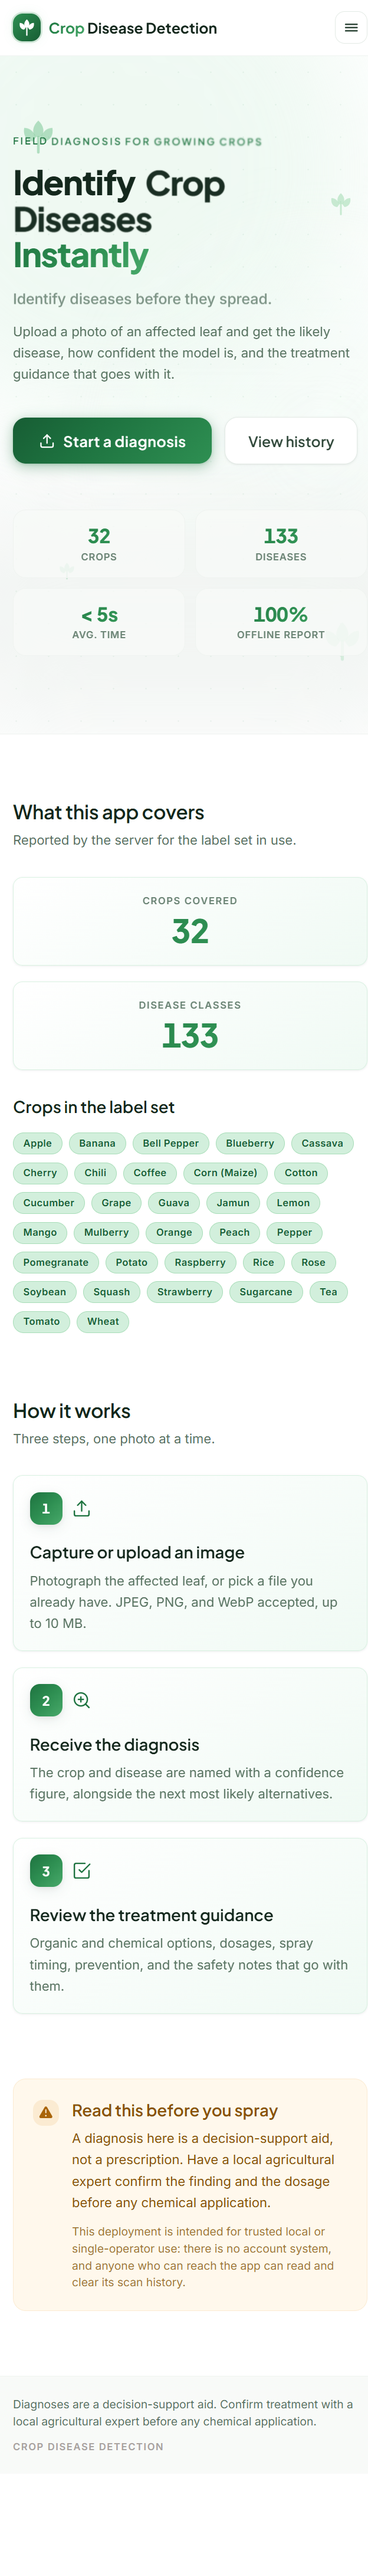
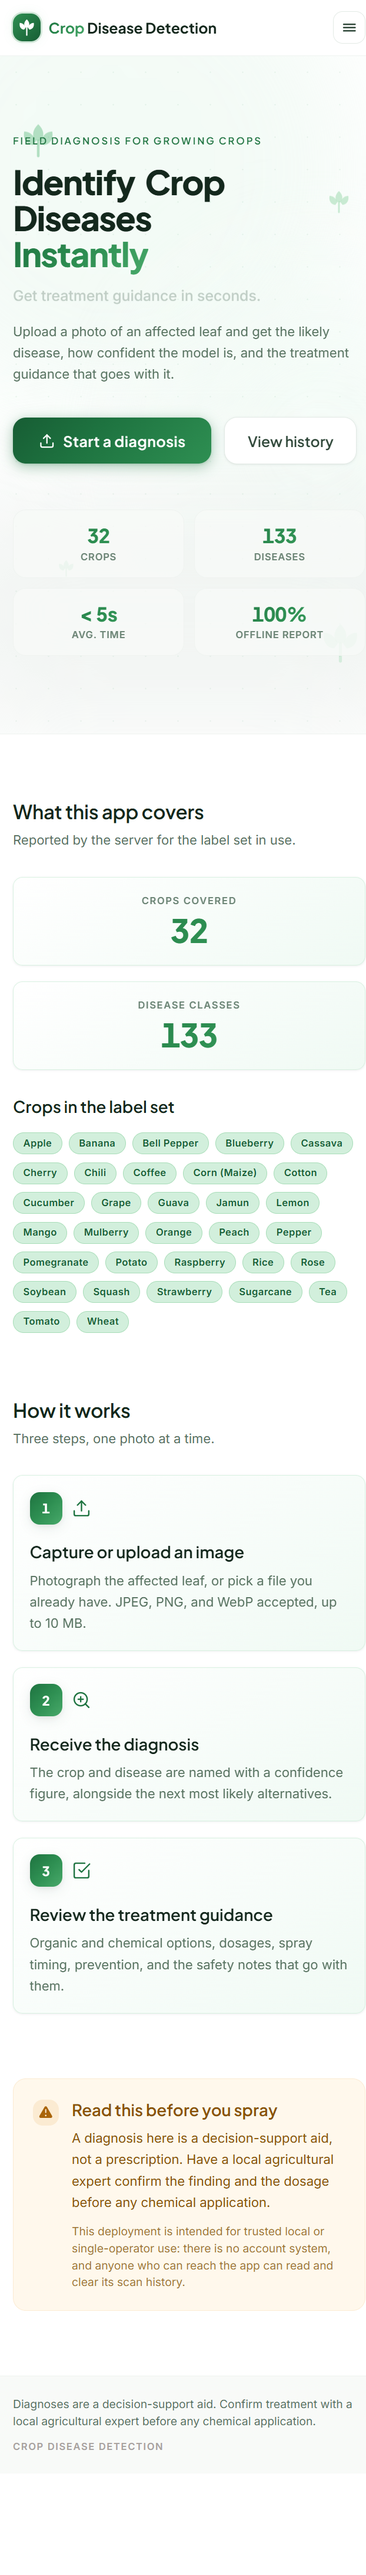
Refresh website screenshots and history image handling

diff --git a/backend/app/db/database.py b/backend/app/db/database.py
@@ -12,9 +12,10 @@ Three things are worth knowing before editing:
   an explicit ``ALTER TABLE`` guarded by a ``PRAGMA table_info`` check -- there is
   no framework to do it for you, and that is the deliberate trade.
 * **One connection per request, never one shared connection.** Route handlers are
-  sync ``def``, so FastAPI runs them in its worker threadpool and each call gets
-  its own connection from :func:`get_connection`. Because no connection ever
-  crosses a thread boundary, ``check_same_thread`` stays at its safe default.
+    sync ``def``, so FastAPI runs them in its worker threadpool and each call gets
+    its own connection from :func:`get_connection`. FastAPI may run dependency
+    cleanup on a different worker thread, so each private connection allows that
+    handoff with ``check_same_thread=False``.
 * **Pragmas are per-connection except one.** ``journal_mode=WAL`` is persisted in
   the database header, so it survives; ``foreign_keys=ON`` is per-connection and
   has to be re-issued on every ``connect``. Both are set every time regardless,
@@ -184,7 +185,10 @@ def connect(
         in-memory database has no concurrent readers to protect.
     """
     target = _resolve_db_path(db_path, settings)
-    conn = sqlite3.connect(target)
+    # FastAPI can resume a generator dependency's cleanup on a different worker
+    # thread from the one that created the connection. Each connection remains
+    # request-local, so allowing that close handoff is safe here.
+    conn = sqlite3.connect(target, check_same_thread=False)
     conn.row_factory = sqlite3.Row
 
     # WAL: readers never block the writer, which matters because a history list

diff --git a/README.md b/README.md
@@ -48,13 +48,13 @@ Crop diseases cause substantial losses to agricultural yield and food security e
 
 ## 📸 Screenshots
 
-The complete local website flow is shown below: the landing page, diagnosis workspace, and scan history view.
+The current local website flow is shown below: the home page, image upload workspace, completed diagnosis with treatment guidance, and scan history with crop photos.
 
 <p align="center">
   <img src="frontend/public/screenshots/home.png" alt="Crop Disease Detection home page" width="23%" />
-  <img src="frontend/public/screenshots/diagnosis.png" alt="Crop Disease Detection diagnosis page" width="23%" />
-  <img src="frontend/public/screenshots/history.png" alt="Crop Disease Detection history page" width="23%" />
-  <img src="frontend/public/screenshots/not-found.png" alt="Crop Disease Detection not found page" width="23%" />
+  <img src="frontend/public/screenshots/diagnosis-upload.png" alt="Diagnosis page with a crop image uploaded" width="23%" />
+  <img src="frontend/public/screenshots/diagnosis-result-treatment.png" alt="Diagnosis result and treatment guidance" width="23%" />
+  <img src="frontend/public/screenshots/history.png" alt="History page with saved crop images" width="23%" />
 </p>
 
 ---
@@ -174,6 +174,7 @@ Both frontend and backend are covered by comprehensive unit, integration, and pr
 cd backend
 python -m pytest tests
 ```
+
 - **82 automated tests passing** (configuration validation, database persistence, batch history deletion, error envelopes, and recommendation resolution).
 
 ### Frontend Tests (Vitest & Testing Library)
@@ -193,22 +194,23 @@ npm run lint
 # Build production bundle
 npm run build
 ```
+
 - **53 automated tests passing** (WCAG contrast checks, layout verification, accessibility traps, confidence meters, and diagnosis reports).
 
 ---
 
 ## 📡 API Reference
 
-| Method | Path | Description |
-|---|---|---|
-| `GET` | `/api/health` | Healthcheck & loaded model status (`healthy` / `degraded`) |
-| `GET` | `/api/meta/classes` | Retrieve supported crops, diseases, and total class count |
-| `POST` | `/api/predict` | Upload image (`multipart/form-data`) with optional crop filter |
-| `GET` | `/api/history` | Paginated list of recent scans (newest first) |
-| `GET` | `/api/history/{id}` | Detailed scan record with candidates & treatments |
-| `GET` | `/api/history/{id}/image`| Raw leaf image stream for a scan |
-| `DELETE` | `/api/history/{id}` | Delete a single scan and its image file |
-| `DELETE` | `/api/history` | **Delete all history** scans and prune uploaded images |
+| Method   | Path                      | Description                                                    |
+| -------- | ------------------------- | -------------------------------------------------------------- |
+| `GET`    | `/api/health`             | Healthcheck & loaded model status (`healthy` / `degraded`)     |
+| `GET`    | `/api/meta/classes`       | Retrieve supported crops, diseases, and total class count      |
+| `POST`   | `/api/predict`            | Upload image (`multipart/form-data`) with optional crop filter |
+| `GET`    | `/api/history`            | Paginated list of recent scans (newest first)                  |
+| `GET`    | `/api/history/{id}`       | Detailed scan record with candidates & treatments              |
+| `GET`    | `/api/history/{id}/image` | Raw leaf image stream for a scan                               |
+| `DELETE` | `/api/history/{id}`       | Delete a single scan and its image file                        |
+| `DELETE` | `/api/history`            | **Delete all history** scans and prune uploaded images         |
 
 ---
 
@@ -216,10 +218,10 @@ npm run build
 
 The application uses two deep learning architectures trained on plant pathology datasets:
 
-| Checkpoint File | Architecture | Input Size | Classes | Role |
-|---|---|---|---|---|
-| `vit_b16_epoch_02 (2).pth` | ViT-B/16 (timm) | 384×384 | 91 | Primary classifier |
-| `best_epoch_4_acc_98.70.pth` | EfficientNet-B3 (timm) | 300×300 | 91 | Confidence fallback |
+| Checkpoint File              | Architecture           | Input Size | Classes | Role                |
+| ---------------------------- | ---------------------- | ---------- | ------- | ------------------- |
+| `vit_b16_epoch_02 (2).pth`   | ViT-B/16 (timm)        | 384×384    | 91      | Primary classifier  |
+| `best_epoch_4_acc_98.70.pth` | EfficientNet-B3 (timm) | 300×300    | 91      | Confidence fallback |
 
 Checkpoints are placed in the `models/` directory. See [models/README.md](models/README.md) for architecture details, dataset mappings, and download instructions.
 
@@ -230,6 +232,7 @@ Checkpoints are placed in the `models/` directory. See [models/README.md](models
 Developed and maintained exclusively by:
 
 **Dibendu094**
+
 - **GitHub**: [@Dibendu094](https://github.com/Dibendu094)
 - **Repository**: [Dibendu094/CropDiseasesDetection](https://github.com/Dibendu094/CropDiseasesDetection)
 
